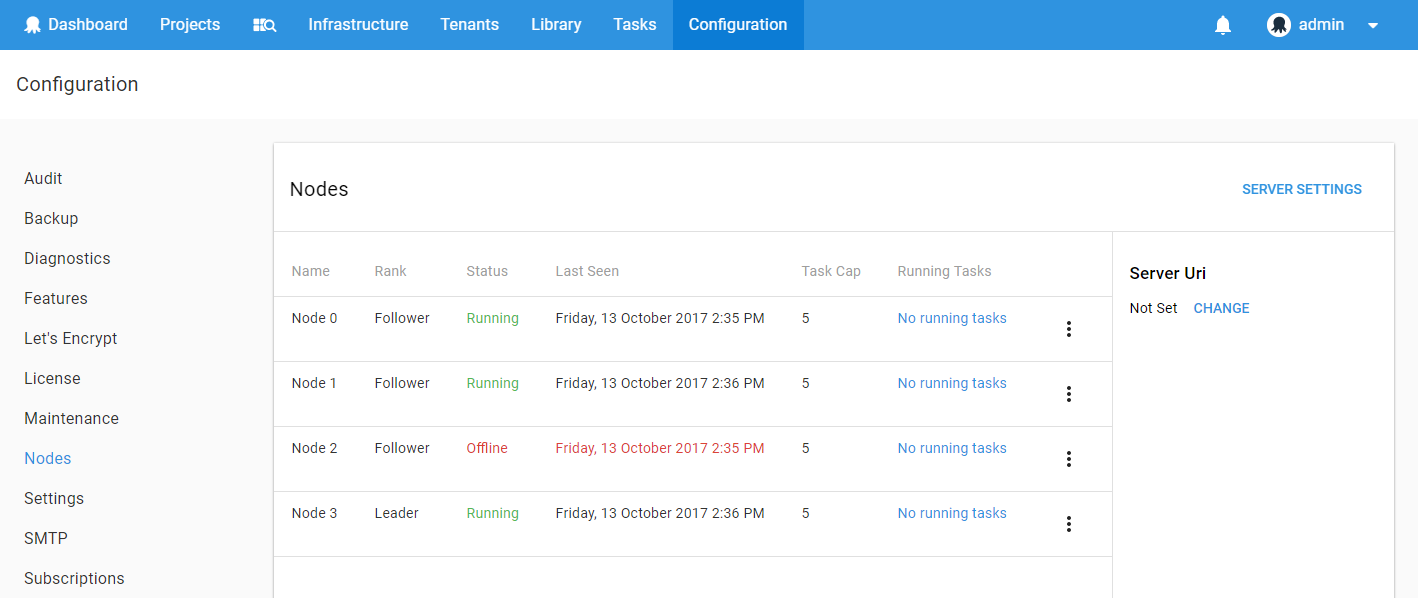
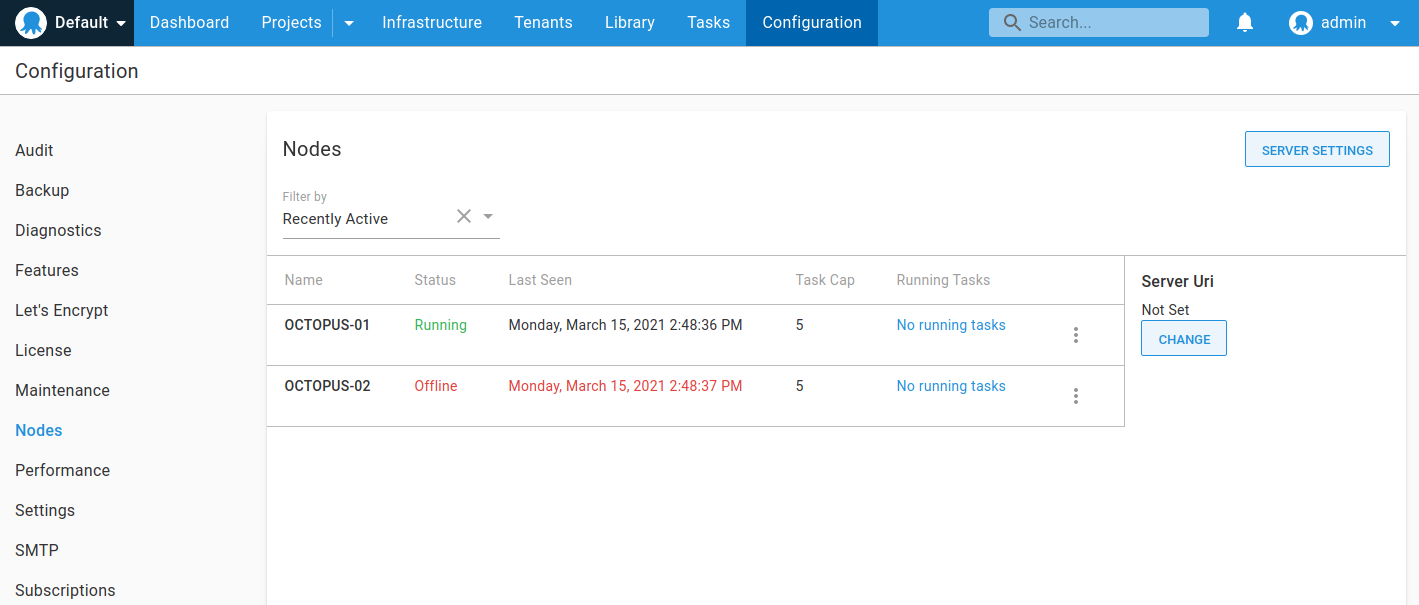
Update managing HA cluster to remove rank

diff --git a/docs/administration/high-availability/managing-high-availability-nodes.md b/docs/administration/high-availability/managing-high-availability-nodes.md
@@ -9,38 +9,12 @@ Managing the nodes in your Octopus Server High Availability cluster can be done 
 
 Information regarding each of your nodes is displayed here.  You can see:
 
-- **Rank**: follower or leader.
+- **Name**: the name of the node.
+- **Status**: the status of the node (e.g. Running, Drained, Offline).
 - **Last seen**: the last time the node checked in.
-- **Tasks**: the number of task currently running on the node.
 - **Task cap**: the maximum number of tasks that may run on the node.
+- **Tasks**: the number of task currently running on the node.
 - **Drain**: on or off depending on if the node can execute new tasks.
-
-## Rank {#ManagingHighAvailabilityNodes-Rank}
-
-The nodes in your Octopus Server High Availability cluster can be either a leader or a follower.  Only one node can be the cluster leader and the rest of the nodes will be followers.  Some maintenance and scheduled tasks will only run on the cluster leader, such as:
-
-- Applying retention policy.
-- Cleaning the package cache.
-- Initiating Tentacle health checks (though the actual health check may be run by any node).
-- Re-indexing the built-in NuGet package repository.
-
-If your leader node goes offline or into drain mode, one of your followers will become the new leader.
-
-**Example**
-
-```text
-Node A joins the High Availability cluster and becomes *leader*
-
-Node B joins the High Availability cluster and becomes *follower*
-
-Node C joins the High Availability cluster and becomes *follower*
-
-Node B is placed in [Maintenance Mode](/docs/administration/managing-infrastructure/maintenance-mode.md) so cannot become *leader*
-
-Node A goes offline
-
-Node C elects itself *leader*
-```
 
 ## Last seen {#ManagingHighAvailabilityNodes-Lastseen}
 
